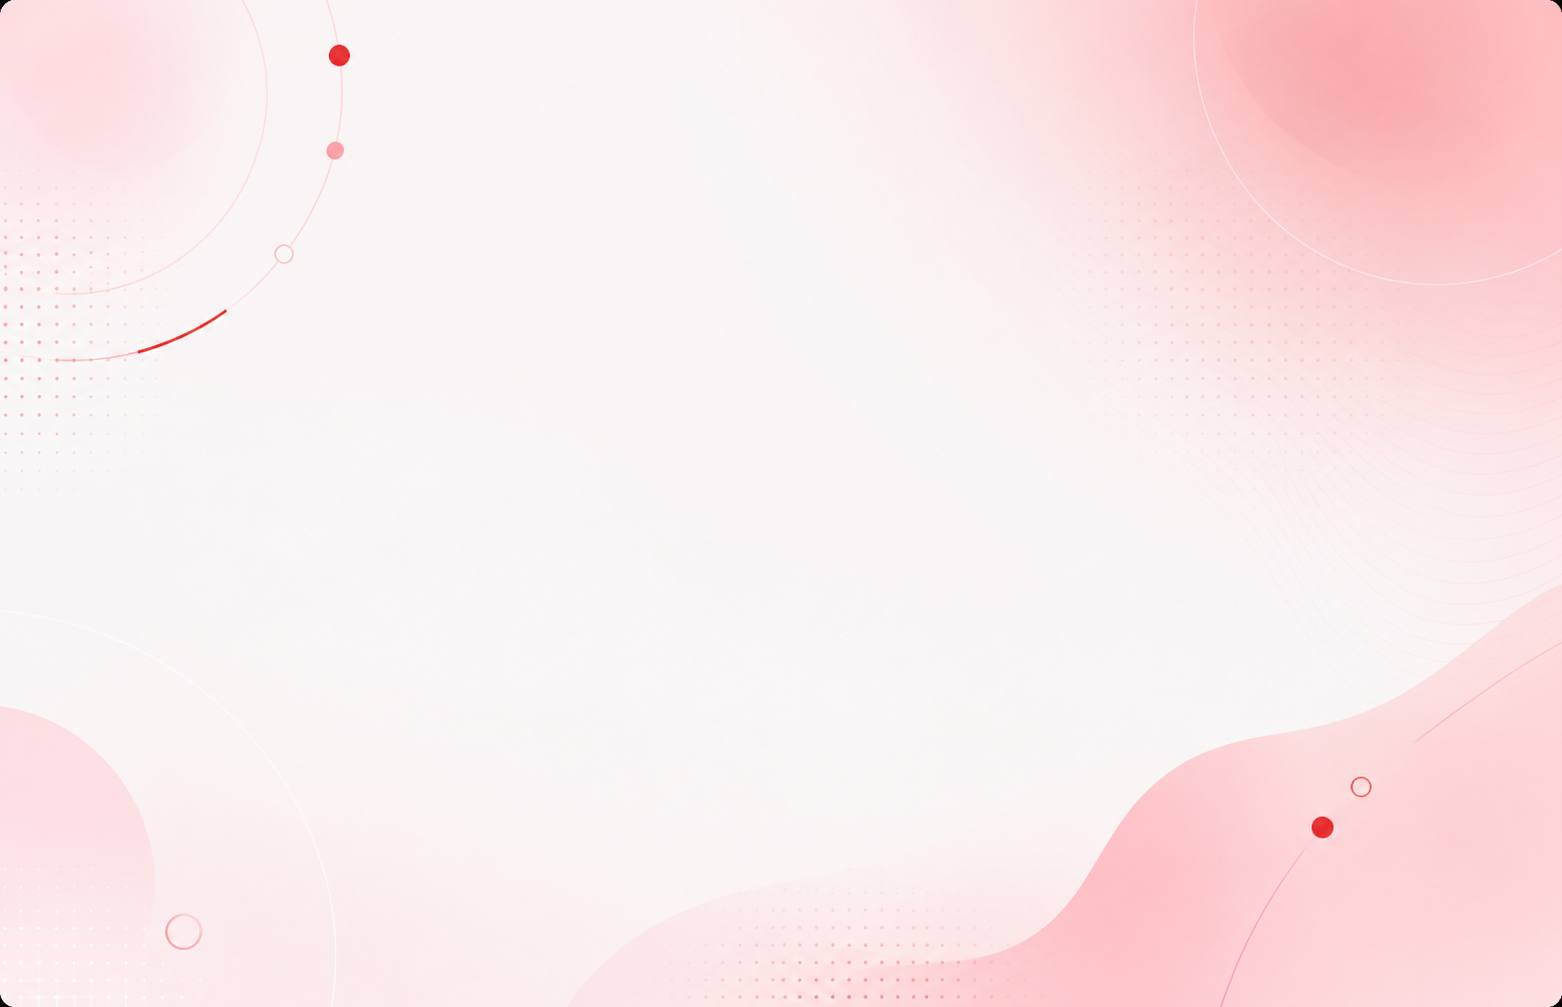
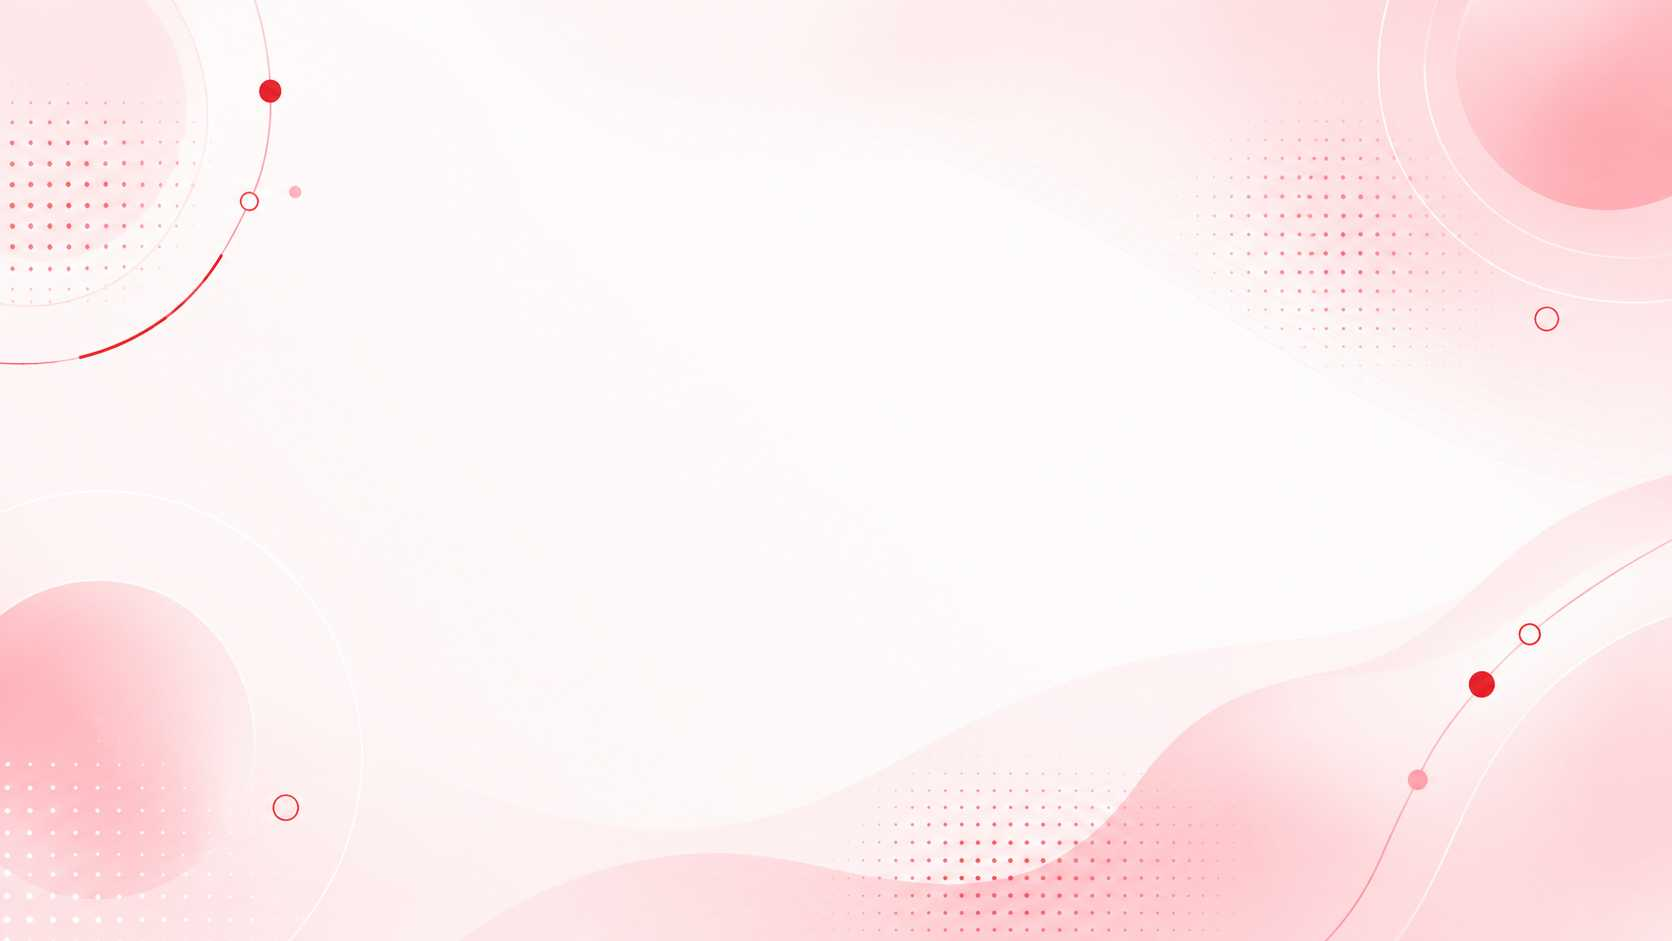
Feat : BG image changed for project section

diff --git a/src/app/components/styles/FeaturedProjectsSection.css b/src/app/components/styles/FeaturedProjectsSection.css
@@ -14,8 +14,8 @@
 .section-projects-bg-overlay {
   position: absolute;
   inset: 0;
-  background: rgba(250, 250, 250, 0.91);
-  backdrop-filter: blur(4px);
+  background: rgba(255, 255, 255, 0.35);
+  backdrop-filter: blur(1px);
   z-index: 0;
 }
 
